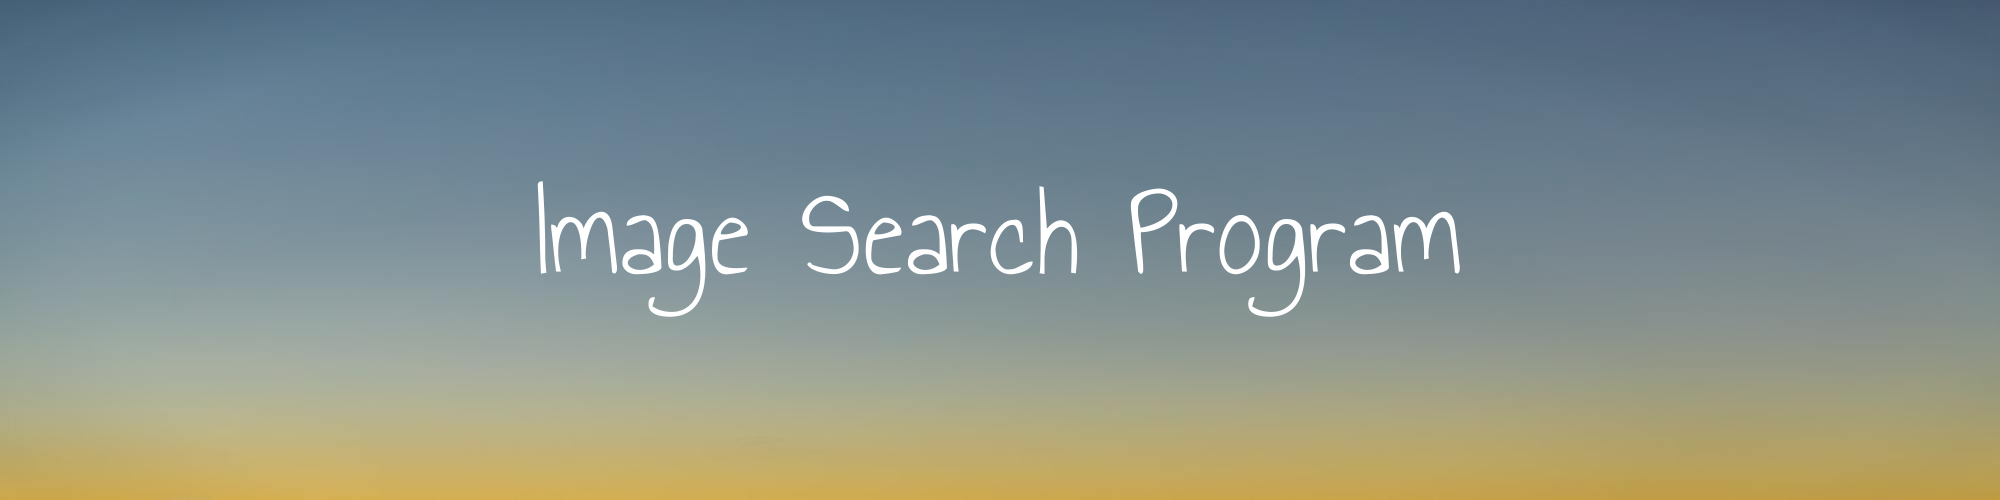
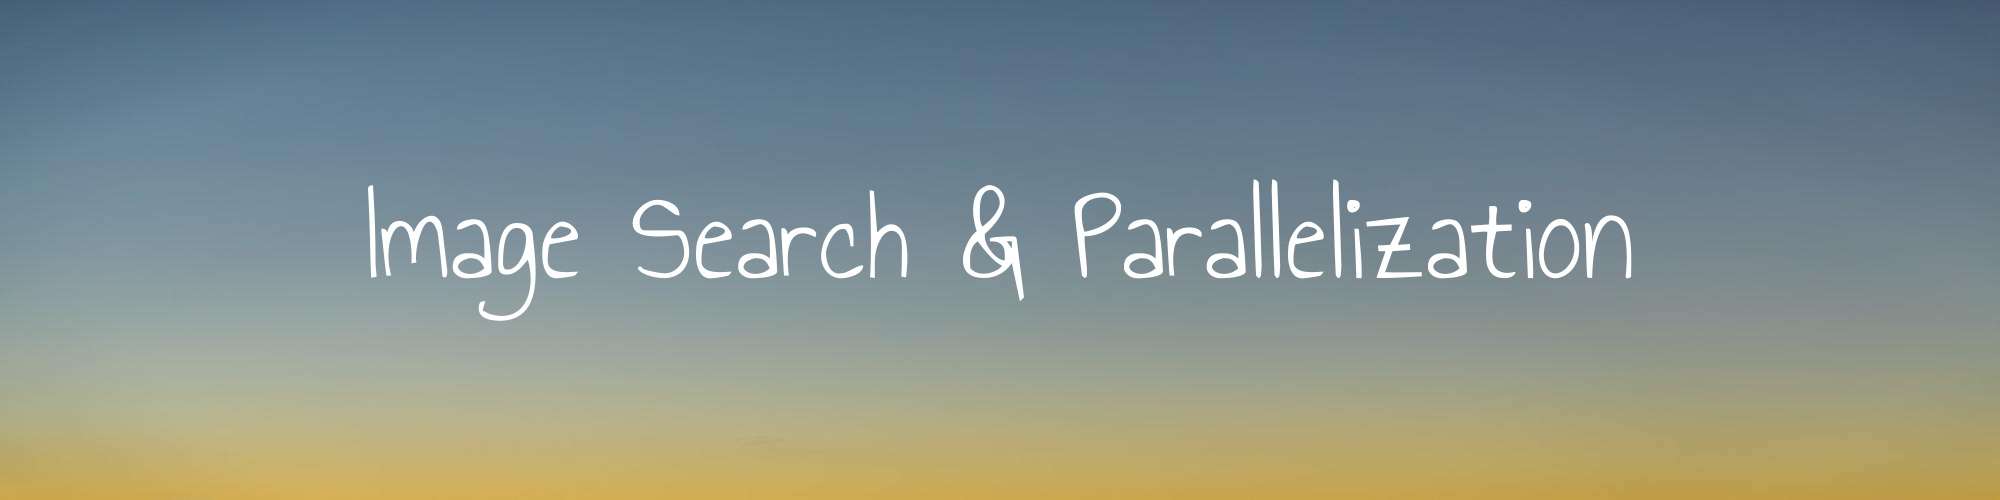
image search changes

diff --git a/_site/imageSearching/index.html b/_site/imageSearching/index.html
@@ -9,19 +9,19 @@
   <head>
     <meta charset="utf-8">
 
-<!-- begin _includes/seo.html --><title>Image Search Program - Kai Li</title>
-<meta name="description" content="OpenMp, Image Processing, C++, High Performance Computing, CSE443">
+<!-- begin _includes/seo.html --><title>Image Search &amp; Parallization - Kai Li</title>
+<meta name="description" content="OpenMp, Image Processing, C++, Parallelization, CSE443">
 
 
 
 <meta property="og:type" content="article">
 <meta property="og:locale" content="en_US">
 <meta property="og:site_name" content="Kai Li">
-<meta property="og:title" content="Image Search Program">
+<meta property="og:title" content="Image Search &amp; Parallization">
 <meta property="og:url" content="http://localhost:4000/imageSearching/">
 
 
-  <meta property="og:description" content="OpenMp, Image Processing, C++, High Performance Computing, CSE443">
+  <meta property="og:description" content="OpenMp, Image Processing, C++, Parallelization, CSE443">
 
 
 
@@ -167,7 +167,7 @@
 
 <div class="page__hero" style=" ">
   
-    <img src="http://localhost:4000/images/projectImages/imageSearch.jpg" alt="Image Search Program" class="page__hero-image">
+    <img src="http://localhost:4000/images/projectImages/imageSearch.jpg" alt="Image Search &amp; Parallization" class="page__hero-image">
   
   
 </div>
@@ -299,15 +299,15 @@
 
 
   <article class="page" itemscope itemtype="http://schema.org/CreativeWork">
-    <meta itemprop="headline" content="Image Search Program">
-    <meta itemprop="description" content="OpenMp, Image Processing, C++, High Performance Computing, CSE443">
+    <meta itemprop="headline" content="Image Search &amp; Parallization">
+    <meta itemprop="description" content="OpenMp, Image Processing, C++, Parallelization, CSE443">
     <meta itemprop="datePublished" content="October 01, 2017">
     
 
     <div class="page__inner-wrap">
       
         <header>
-          <h1 class="page__title" itemprop="headline">Image Search Program
+          <h1 class="page__title" itemprop="headline">Image Search &amp; Parallization
 </h1>
           
             <p class="page__meta"><i class="far fa-clock" aria-hidden="true"></i> 
@@ -407,7 +407,11 @@ the list whenever it is being accessed or modified.</p>
     
       
       
-      <a href="http://localhost:4000/tags/#openmp" class="page__taxonomy-item" rel="tag">OpenMp</a>
+      <a href="http://localhost:4000/tags/#openmp" class="page__taxonomy-item" rel="tag">OpenMp</a><span class="sep">, </span>
+    
+      
+      
+      <a href="http://localhost:4000/tags/#parallelization" class="page__taxonomy-item" rel="tag">Parallelization</a>
     
     </span>
   </p>
@@ -425,7 +429,7 @@ the list whenever it is being accessed or modified.</p>
     <h4 class="page__share-title">Share on</h4>
   
 
-  <a href="https://twitter.com/intent/tweet?text=Image+Search+Program%20http%3A%2F%2Flocalhost%3A4000%2FimageSearching%2F" class="btn btn--twitter" onclick="window.open(this.href, 'window', 'left=20,top=20,width=500,height=500,toolbar=1,resizable=0'); return false;" title="Share on Twitter"><i class="fab fa-fw fa-twitter" aria-hidden="true"></i><span> Twitter</span></a>
+  <a href="https://twitter.com/intent/tweet?text=Image+Search+%26+Parallization%20http%3A%2F%2Flocalhost%3A4000%2FimageSearching%2F" class="btn btn--twitter" onclick="window.open(this.href, 'window', 'left=20,top=20,width=500,height=500,toolbar=1,resizable=0'); return false;" title="Share on Twitter"><i class="fab fa-fw fa-twitter" aria-hidden="true"></i><span> Twitter</span></a>
 
   <a href="https://www.facebook.com/sharer/sharer.php?u=http%3A%2F%2Flocalhost%3A4000%2FimageSearching%2F" class="btn btn--facebook" onclick="window.open(this.href, 'window', 'left=20,top=20,width=500,height=500,toolbar=1,resizable=0'); return false;" title="Share on Facebook"><i class="fab fa-fw fa-facebook" aria-hidden="true"></i><span> Facebook</span></a>
 

diff --git a/_site/basicInterpreter/index.html b/_site/basicInterpreter/index.html
@@ -405,7 +405,7 @@ written in such language using a high-level language. I picked Java in for this 
       
   <nav class="pagination">
     
-      <a href="http://localhost:4000/imageSearching/" class="pagination--pager" title="Image Search Program
+      <a href="http://localhost:4000/imageSearching/" class="pagination--pager" title="Image Search &amp; Parallization
 ">Previous</a>
     
     
@@ -488,7 +488,7 @@ written in such language using a high-level language. I picked Java in for this 
     
     <h2 class="archive__item-title" itemprop="headline">
       
-        <a href="http://localhost:4000/imageSearching/" rel="permalink">Image Search Program
+        <a href="http://localhost:4000/imageSearching/" rel="permalink">Image Search &amp; Parallization
 </a>
       
     </h2>
@@ -501,7 +501,7 @@ written in such language using a high-level language. I picked Java in for this 
   1 minute read
 </p>
     
-    <p class="archive__item-excerpt" itemprop="description">OpenMp, Image Processing, C++, High Performance Computing, CSE443
+    <p class="archive__item-excerpt" itemprop="description">OpenMp, Image Processing, C++, Parallelization, CSE443
 </p>
   </article>
 </div>

diff --git a/_site/nearestStarbucks/index.html b/_site/nearestStarbucks/index.html
@@ -425,7 +425,7 @@ find the nearest Starbucks locations to your current location.</p>
 ">Previous</a>
     
     
-      <a href="http://localhost:4000/imageSearching/" class="pagination--pager" title="Image Search Program
+      <a href="http://localhost:4000/imageSearching/" class="pagination--pager" title="Image Search &amp; Parallization
 ">Next</a>
     
   </nav>
@@ -531,7 +531,7 @@ find the nearest Starbucks locations to your current location.</p>
     
     <h2 class="archive__item-title" itemprop="headline">
       
-        <a href="http://localhost:4000/imageSearching/" rel="permalink">Image Search Program
+        <a href="http://localhost:4000/imageSearching/" rel="permalink">Image Search &amp; Parallization
 </a>
       
     </h2>
@@ -544,7 +544,7 @@ find the nearest Starbucks locations to your current location.</p>
   2 minute read
 </p>
     
-    <p class="archive__item-excerpt" itemprop="description">OpenMp, Image Processing, C++, High Performance Computing, CSE443
+    <p class="archive__item-excerpt" itemprop="description">OpenMp, Image Processing, C++, Parallelization, CSE443
 </p>
   </article>
 </div>

diff --git a/_site/assets/js/lunr/lunr-store.js b/_site/assets/js/lunr/lunr-store.js
@@ -14,9 +14,9 @@ var store = [{
         "tags": ["nearest-neighbor","k-d tree","Java"],
         "url": "http://localhost:4000/nearestStarbucks/",
         "teaser":null},{
-        "title": "Image Search Program",
+        "title": "Image Search & Parallization",
         "excerpt":"Problem:Develop a simple image search program, i.e., simple algorithmic implmentation, movingthe mask image row-by-row and column-by-column from left-to-right and top-to-bottom.Each matched image (.png format in [red, green, blue, alpha]) region in the largerimage would be surrounded with a red box.Detailed Project/HW infoGoal:The emphasis lies in parallelism (OpenMP) that is to...","categories": [],
-        "tags": ["OpenMp","Image Processing","C++"],
+        "tags": ["OpenMp","Image Processing","Parallelization","C++"],
         "url": "http://localhost:4000/imageSearching/",
         "teaser":null},{
         "title": "Interpreter Program",

diff --git a/_site/Serialization/index.html b/_site/Serialization/index.html
@@ -506,7 +506,7 @@ of serialization and deserialization by using <code class="highlighter-rouge">C#
     
     <h2 class="archive__item-title" itemprop="headline">
       
-        <a href="http://localhost:4000/imageSearching/" rel="permalink">Image Search Program
+        <a href="http://localhost:4000/imageSearching/" rel="permalink">Image Search &amp; Parallization
 </a>
       
     </h2>
@@ -519,7 +519,7 @@ of serialization and deserialization by using <code class="highlighter-rouge">C#
   1 minute read
 </p>
     
-    <p class="archive__item-excerpt" itemprop="description">OpenMp, Image Processing, C++, High Performance Computing, CSE443
+    <p class="archive__item-excerpt" itemprop="description">OpenMp, Image Processing, C++, Parallelization, CSE443
 </p>
   </article>
 </div>

diff --git a/_site/webServerClasses/index.html b/_site/webServerClasses/index.html
@@ -585,7 +585,7 @@ Content-Length: 47</p>
     
     <h2 class="archive__item-title" itemprop="headline">
       
-        <a href="http://localhost:4000/imageSearching/" rel="permalink">Image Search Program
+        <a href="http://localhost:4000/imageSearching/" rel="permalink">Image Search &amp; Parallization
 </a>
       
     </h2>
@@ -598,7 +598,7 @@ Content-Length: 47</p>
   2 minute read
 </p>
     
-    <p class="archive__item-excerpt" itemprop="description">OpenMp, Image Processing, C++, High Performance Computing, CSE443
+    <p class="archive__item-excerpt" itemprop="description">OpenMp, Image Processing, C++, Parallelization, CSE443
 </p>
   </article>
 </div>

diff --git a/_site/tweet2html/index.html b/_site/tweet2html/index.html
@@ -564,7 +564,7 @@ into HTML format.</p>
     
     <h2 class="archive__item-title" itemprop="headline">
       
-        <a href="http://localhost:4000/imageSearching/" rel="permalink">Image Search Program
+        <a href="http://localhost:4000/imageSearching/" rel="permalink">Image Search &amp; Parallization
 </a>
       
     </h2>
@@ -577,7 +577,7 @@ into HTML format.</p>
   2 minute read
 </p>
     
-    <p class="archive__item-excerpt" itemprop="description">OpenMp, Image Processing, C++, High Performance Computing, CSE443
+    <p class="archive__item-excerpt" itemprop="description">OpenMp, Image Processing, C++, Parallelization, CSE443
 </p>
   </article>
 </div>

diff --git a/_site/mailMergePro/index.html b/_site/mailMergePro/index.html
@@ -501,7 +501,7 @@ ___</p>
     
     <h2 class="archive__item-title" itemprop="headline">
       
-        <a href="http://localhost:4000/imageSearching/" rel="permalink">Image Search Program
+        <a href="http://localhost:4000/imageSearching/" rel="permalink">Image Search &amp; Parallization
 </a>
       
     </h2>
@@ -514,7 +514,7 @@ ___</p>
   1 minute read
 </p>
     
-    <p class="archive__item-excerpt" itemprop="description">OpenMp, Image Processing, C++, High Performance Computing, CSE443
+    <p class="archive__item-excerpt" itemprop="description">OpenMp, Image Processing, C++, Parallelization, CSE443
 </p>
   </article>
 </div>

diff --git a/_site/index.html b/_site/index.html
@@ -395,7 +395,7 @@
     
     <h2 class="archive__item-title" itemprop="headline">
       
-        <a href="http://localhost:4000/imageSearching/" rel="permalink">Image Search Program
+        <a href="http://localhost:4000/imageSearching/" rel="permalink">Image Search &amp; Parallization
 </a>
       
     </h2>
@@ -408,7 +408,7 @@
   1 minute read
 </p>
     
-    <p class="archive__item-excerpt" itemprop="description">OpenMp, Image Processing, C++, High Performance Computing, CSE443
+    <p class="archive__item-excerpt" itemprop="description">OpenMp, Image Processing, C++, Parallelization, CSE443
 </p>
   </article>
 </div>

diff --git a/_site/projects/index.html b/_site/projects/index.html
@@ -399,7 +399,7 @@
     
     <h2 class="archive__item-title" itemprop="headline">
       
-        <a href="http://localhost:4000/imageSearching/" rel="permalink">Image Search Program
+        <a href="http://localhost:4000/imageSearching/" rel="permalink">Image Search &amp; Parallization
 </a>
       
     </h2>
@@ -412,7 +412,7 @@
   1 minute read
 </p>
     
-    <p class="archive__item-excerpt" itemprop="description">OpenMp, Image Processing, C++, High Performance Computing, CSE443
+    <p class="archive__item-excerpt" itemprop="description">OpenMp, Image Processing, C++, Parallelization, CSE443
 </p>
   </article>
 </div>

diff --git a/_posts/2018-3-08-imageSearching.md b/_posts/2018-3-08-imageSearching.md
@@ -1,10 +1,10 @@
 ---
-title: "Image Search Program"
+title: "Image Search & Parallization"
 date: 2017-10-01
-tags: [OpenMp, Image Processing, C++]
+tags: [OpenMp, Image Processing, Parallelization, C++]
 header:
   image: "/images/projectImages/imageSearch.jpg"
-excerpt: "OpenMp, Image Processing, C++, High Performance Computing, CSE443"
+excerpt: "OpenMp, Image Processing, C++, Parallelization, CSE443"
 # enabling math equations rendering in markdown
 mathjax: "true"
 ---
